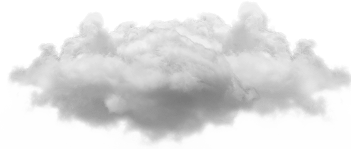
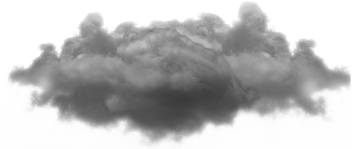
popup: tweak clouds

diff --git a/src/popup/styles/main.css b/src/popup/styles/main.css
@@ -83,14 +83,14 @@ body {
 
     animation-name: cloud;
     animation-fill-mode: both;
-    opacity: 0.5;
+    opacity: 0.7;
     animation-delay: 0.3s;
     animation-duration: 0.3s;
     animation-timing-function: cubic-bezier(0.85, 0, 0.15, 1.1);
 }
 
 .cloud-left {
-    bottom: -60px;
+    bottom: -76px;
     left: -50px;
     width: 358px;
 }
@@ -108,7 +108,7 @@ body {
     }
 
     100% {
-        opacity: 0.5;
+        opacity: 1;
         transform: translateX(0px);
     }
 }
